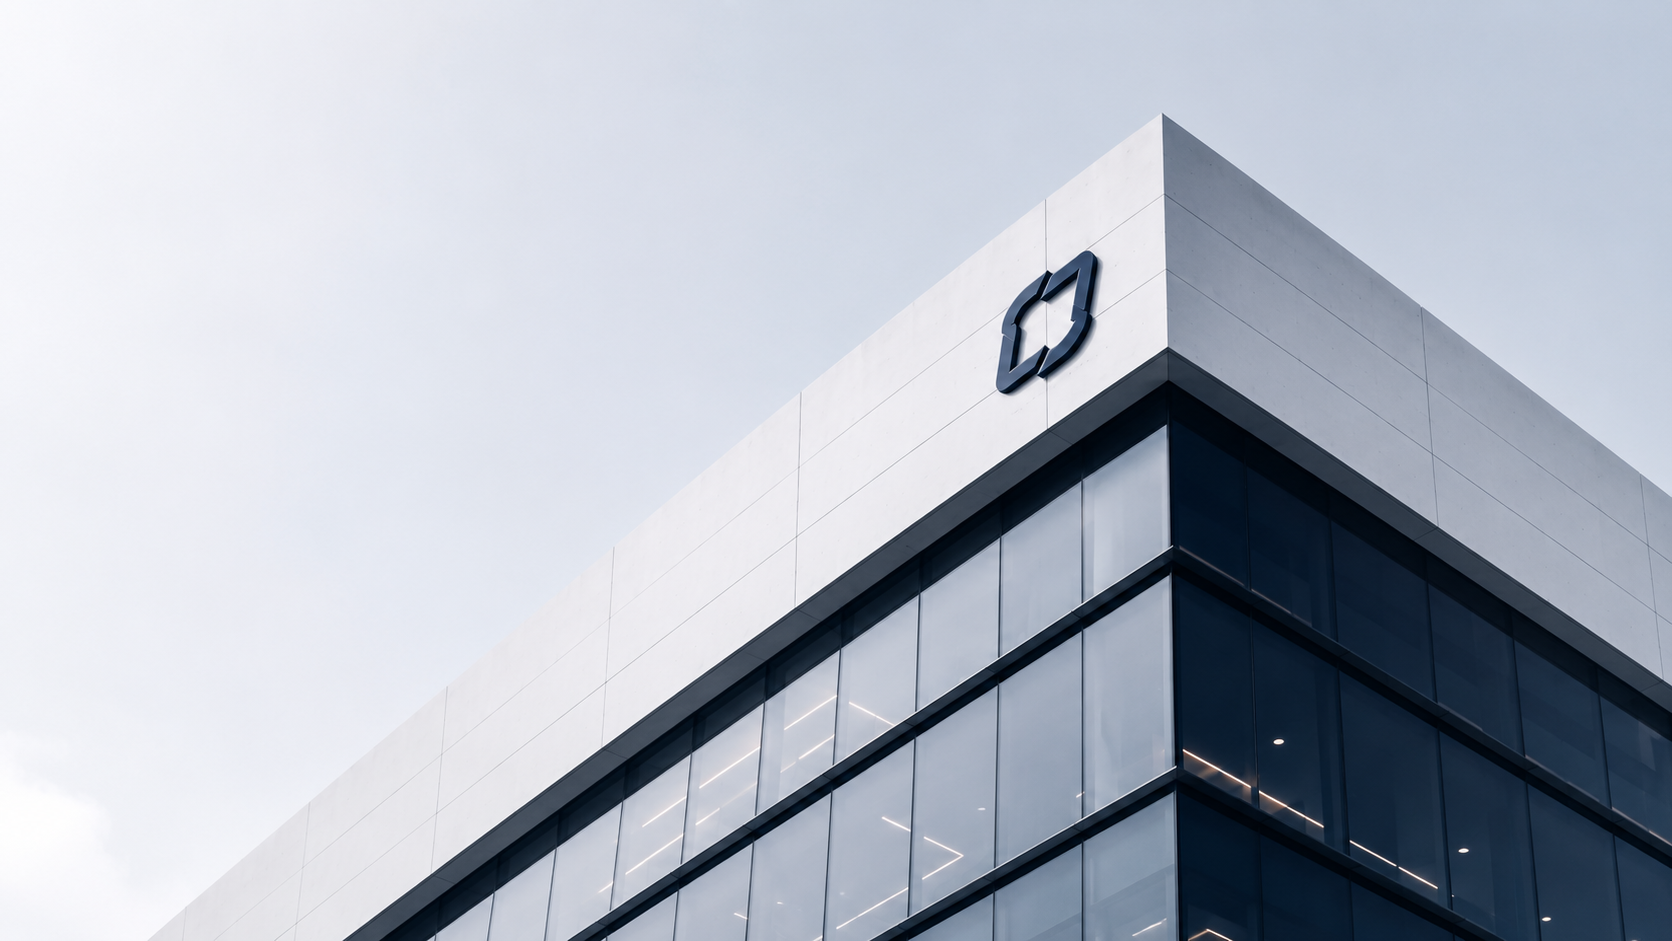
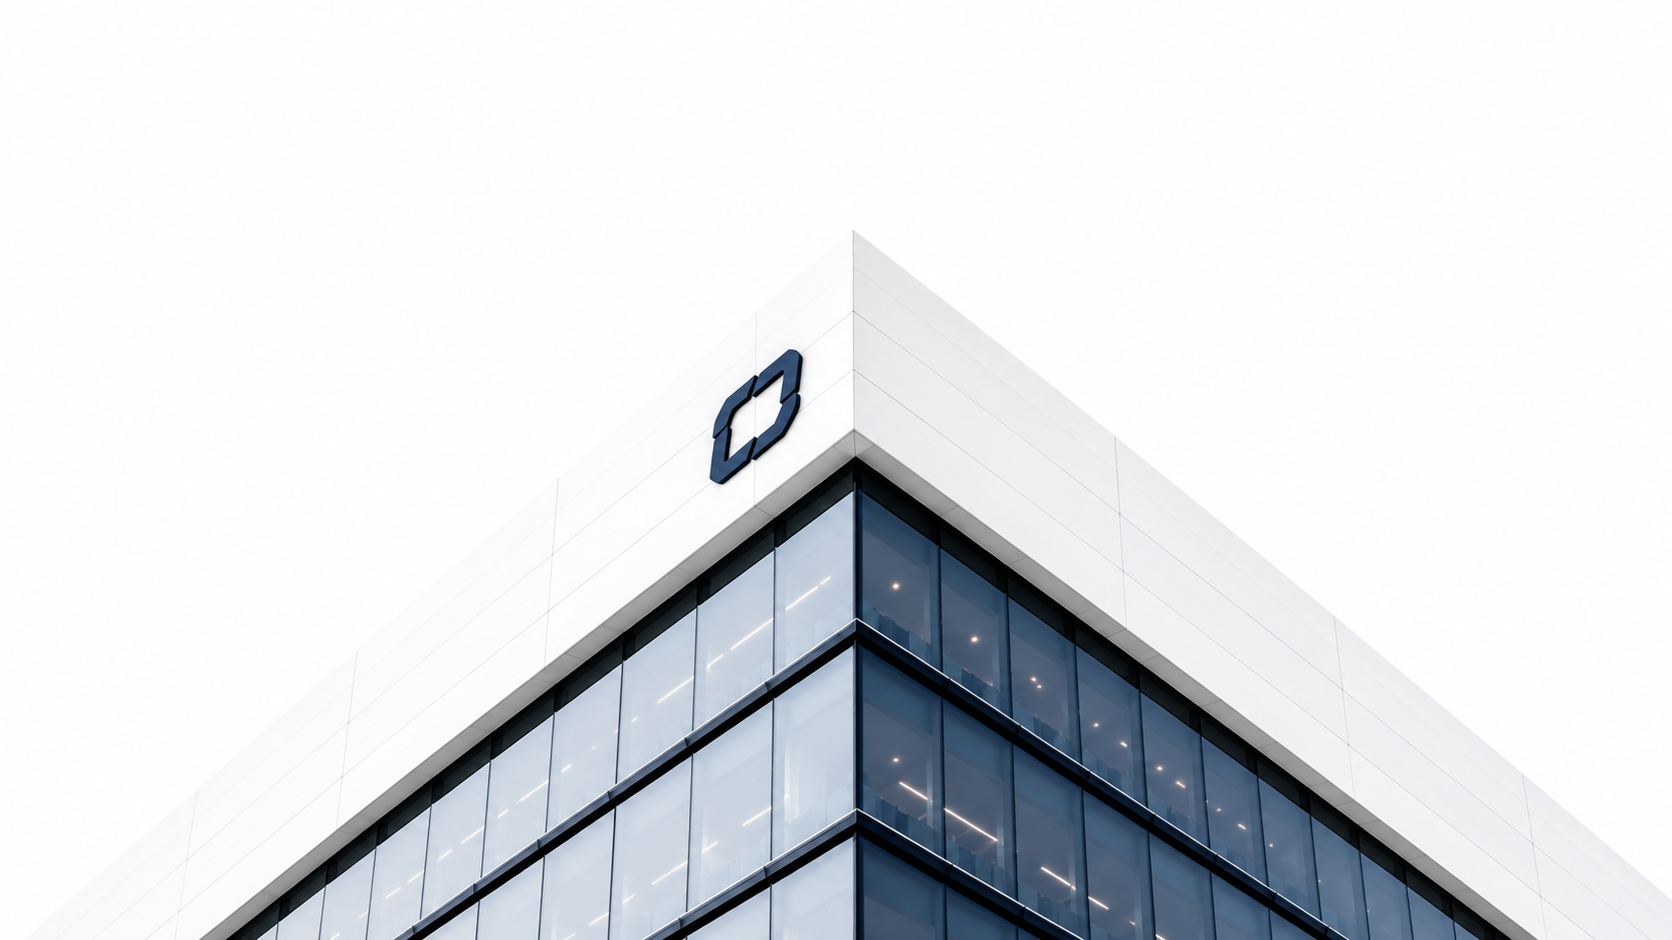
Update project

diff --git a/src/app/promotion/page.module.css b/src/app/promotion/page.module.css
@@ -1,16 +1,17 @@
 .hero {
   position: relative;
   width: min(1330px, 100%);
-  min-height: 430px;
+  min-height: 0;
+  aspect-ratio: 1572 / 656;
   margin: 0 auto;
   padding: 48px 64px;
   display: flex;
   align-items: center;
-  background-color: var(--brand-gray-50);
+  background-color: #fff;
   background-image: url("/images/promotion-hero.png");
   background-repeat: no-repeat;
-  background-position: center 57%;
-  background-size: cover;
+  background-position: center;
+  background-size: 100% 100%;
 }
 
 .heroInner {

diff --git a/src/app/contact/page.module.css b/src/app/contact/page.module.css
@@ -1,16 +1,17 @@
 .hero {
   position: relative;
   width: min(1330px, 100%);
-  min-height: 430px;
+  min-height: 0;
+  aspect-ratio: 1572 / 656;
   margin: 0 auto;
   padding: 48px 64px;
   display: flex;
   align-items: center;
-  background-color: var(--brand-gray-50);
+  background-color: #fff;
   background-image: url("/images/contact-hero.png");
   background-repeat: no-repeat;
-  background-position: center 54%;
-  background-size: cover;
+  background-position: center;
+  background-size: 100% 100%;
 }
 
 .heroInner {

diff --git a/src/app/about/page.module.css b/src/app/about/page.module.css
@@ -1,6 +1,5 @@
 .missionSection {
-  width: min(1330px, 100%);
-  margin: 0 auto;
+  width: 100%;
   background: var(--brand-navy);
   color: var(--brand-text-inverted);
   padding: 72px 24px;

diff --git a/src/components/PageHero.module.css b/src/components/PageHero.module.css
@@ -1,6 +1,6 @@
 .hero {
   padding: 48px 24px;
-  background: var(--brand-gray-50);
+  background: #fff;
 }
 
 .heroWithBg {
